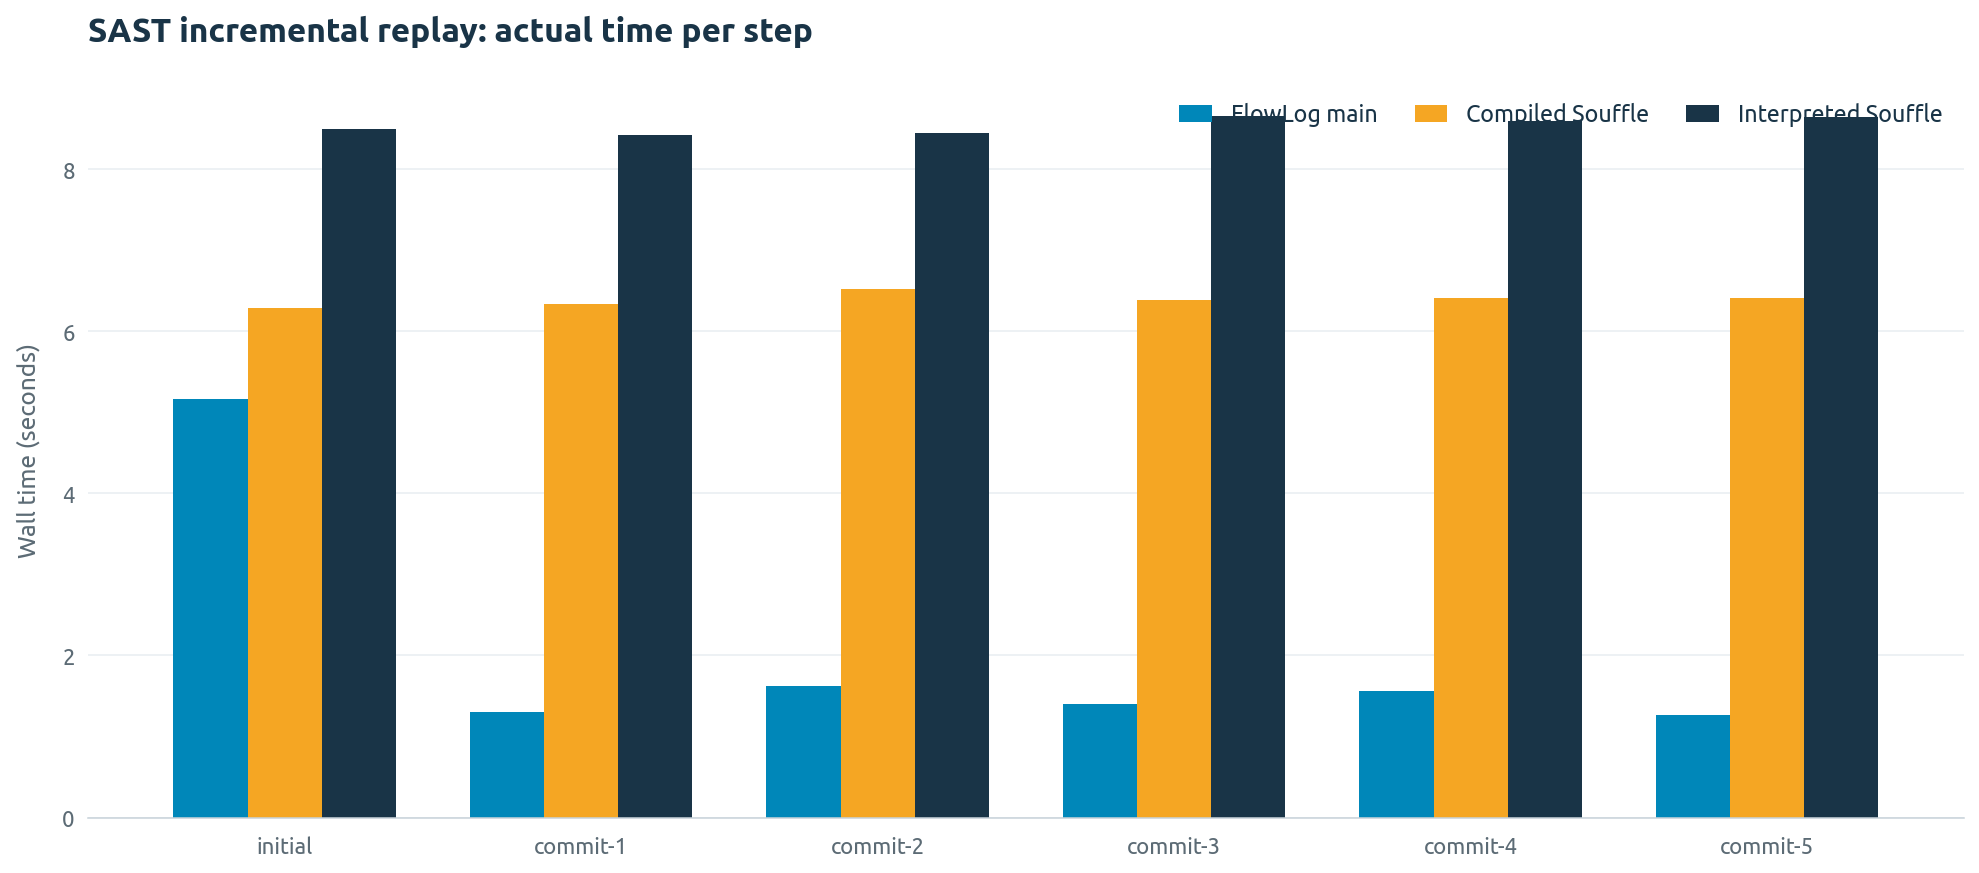
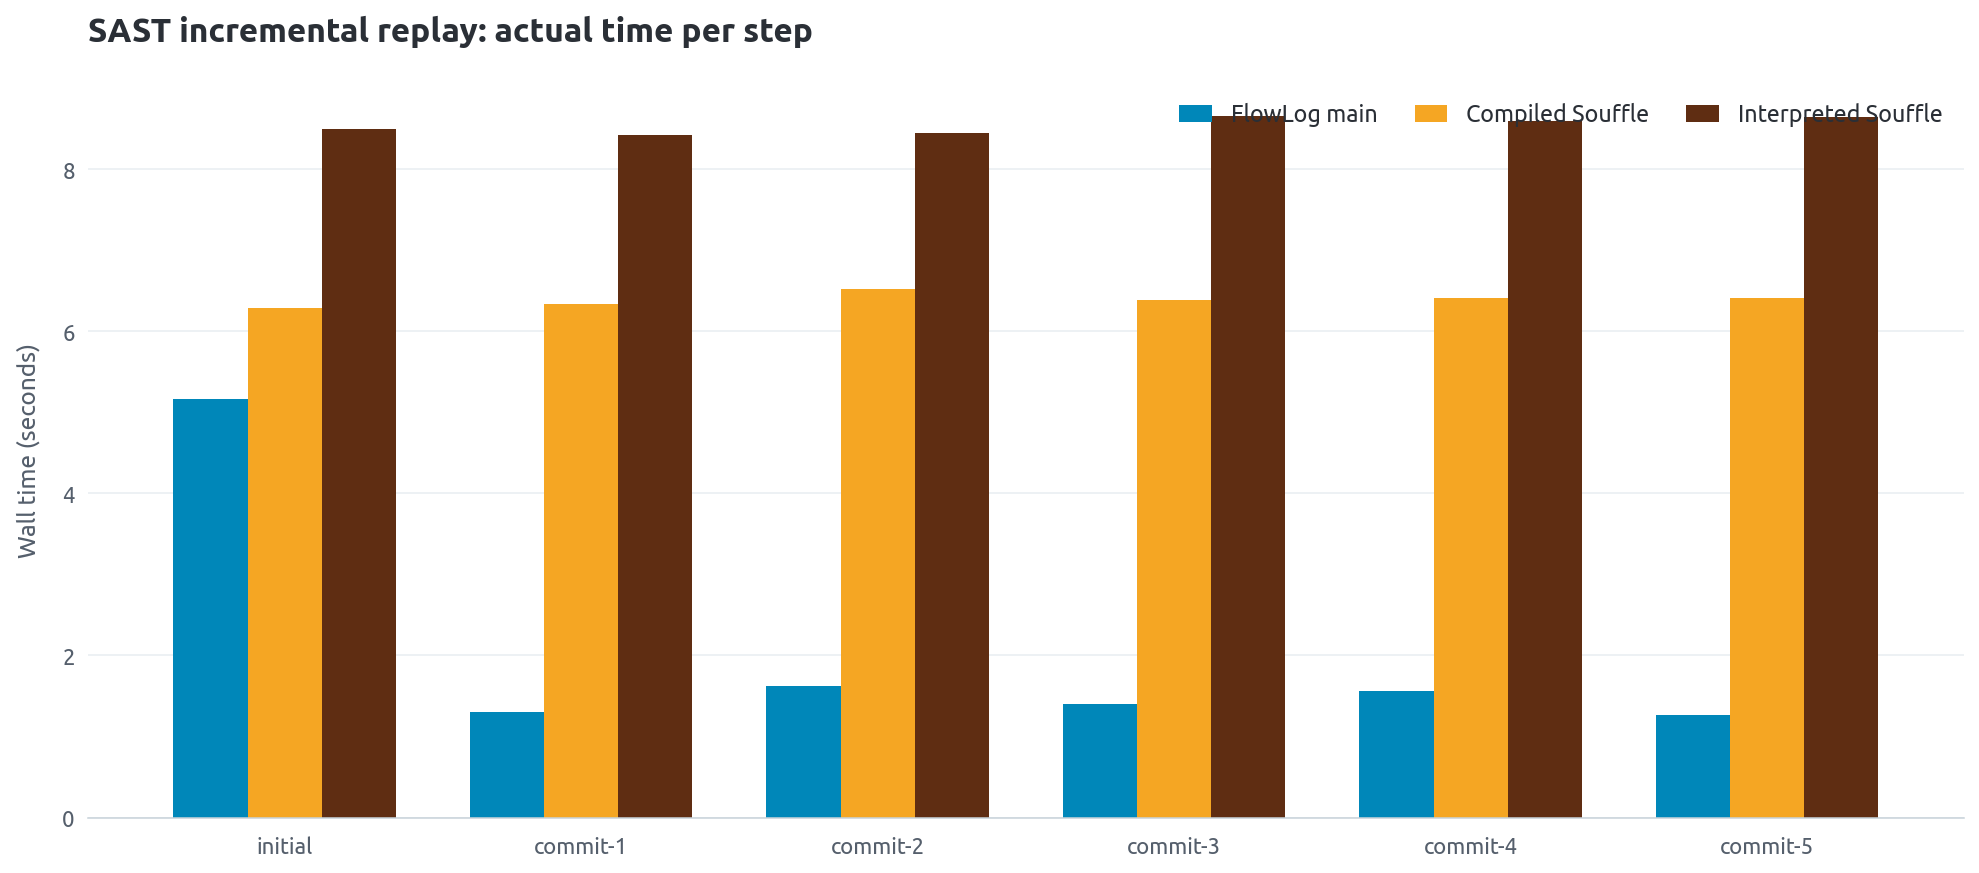
docs: match plots to FlowLog website style
Use the live site's Ubuntu typography, current text colors, and brown brand accent so the third benchmark series no longer reads as grey.

Copilot-Session: 1e792276-a911-4a39-ac23-8b0628ae9b02

diff --git a/docs/benchmarks/2026-09-24-sasy/render.py b/docs/benchmarks/2026-09-24-sasy/render.py
@@ -16,10 +16,10 @@ import numpy as np
 ROOT = Path(__file__).resolve().parent
 FLOWLOG = "#0087B9"
 SOUFFLE = "#F5A623"
-INK = "#193447"
-MUTED = "#5C6B75"
+ACCENT_BROWN = "#5F2D12"
+INK = "#2A2F36"
+MUTED = "#555F6C"
 GRID = "#E8EEF2"
-OLD_SIP = INK
 
 
 def configure_style() -> None:
@@ -150,13 +150,19 @@ def sasty_selected() -> None:
 
     fig, ax = plt.subplots(figsize=(13.5, 6.4))
     ax.bar(x - width, souffle, width, color=SOUFFLE, label="Compiled Souffle")
-    old_bars = ax.bar(x, old_sip, width, color=OLD_SIP, label="Shipped old-SIP")
+    old_bars = ax.bar(
+        x,
+        old_sip,
+        width,
+        color=ACCENT_BROWN,
+        label="Shipped old-SIP",
+    )
     new_bars = ax.bar(x + width, newfix, width, color=FLOWLOG, label="FlowLog main + guard")
 
     for index, row in enumerate(data):
         if row["old_sip_status"] != "complete":
             old_bars[index].set_facecolor("white")
-            old_bars[index].set_edgecolor(OLD_SIP)
+            old_bars[index].set_edgecolor(ACCENT_BROWN)
             old_bars[index].set_hatch("//")
             ax.text(
                 x[index],
@@ -235,7 +241,13 @@ def incremental_sast() -> None:
     fig, ax = plt.subplots(figsize=(12.5, 5.6))
     ax.bar(x - width, flowlog, width, color=FLOWLOG, label="FlowLog main")
     ax.bar(x, compiled, width, color=SOUFFLE, label="Compiled Souffle")
-    ax.bar(x + width, interpreted, width, color=OLD_SIP, label="Interpreted Souffle")
+    ax.bar(
+        x + width,
+        interpreted,
+        width,
+        color=ACCENT_BROWN,
+        label="Interpreted Souffle",
+    )
     ax.set_xticks(x, labels)
     ax.set_ylabel("Wall time (seconds)")
     ax.set_title(

diff --git a/docs/benchmarks/2026-09-24-sasy/README.md b/docs/benchmarks/2026-09-24-sasy/README.md
@@ -272,6 +272,6 @@ The figures are generated from [policy-census.csv](policy-census.csv),
 python3 docs/benchmarks/2026-09-24-sasy/render.py
 ```
 
-Rendering uses FlowLog's Ubuntu typography. On Ubuntu, install
-`fonts-ubuntu`; an extracted font directory can instead be supplied through
-`FLOWLOG_BENCH_FONT_DIR`.
+Rendering uses FlowLog's Ubuntu typography and website blue/brown accents.
+On Ubuntu, install `fonts-ubuntu`; an extracted font directory can instead
+be supplied through `FLOWLOG_BENCH_FONT_DIR`.
